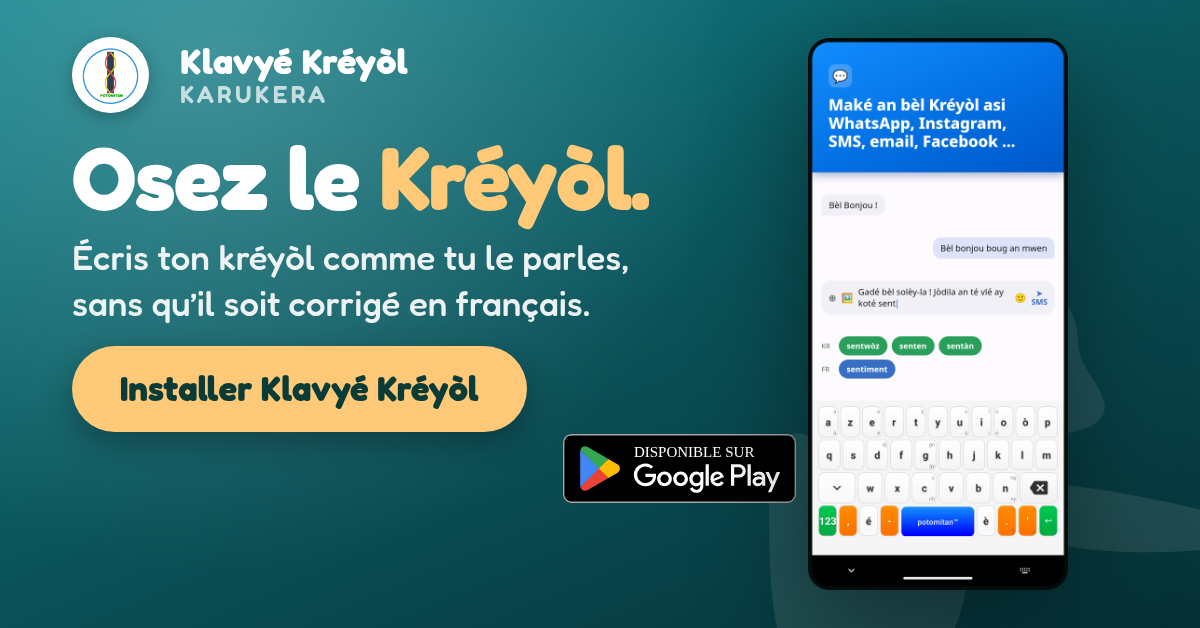
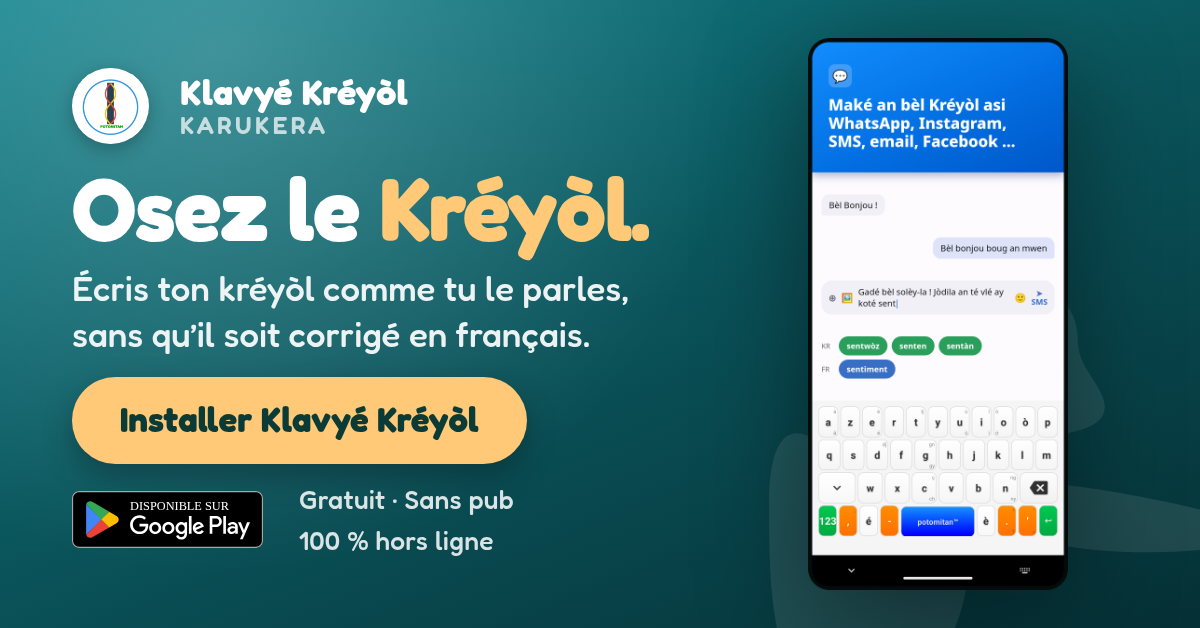
fix(pub): le pied du format paysage débordait sur le téléphone
En 1200 x 628, le bouton, le badge du magasin et les mentions tenaient sur une
seule rangée plus large que la colonne de texte : le badge passait par-dessus
le téléphone et la fin des mentions disparaissait derrière. Le pied s'empile
désormais sur deux niveaux.

Changed region(s): [[0.0617, 0.0605, 0.6783, 0.8774], [0.2467, 0.8471, 0.4317, 0.8774]]

diff --git a/docs/publicites.html b/docs/publicites.html
@@ -184,9 +184,11 @@ code{font-family:var(--mono);font-size:12.5px;background:var(--stripe);padding:1
 .L-wide .brand .name b{font-size:3cqw;}
 .L-wide .brand .name span{font-size:2cqw;}
 .L-wide .shot{max-width:100%;max-height:88cqh;}
-.L-wide .tail{margin-top:auto;padding-top:3cqh;display:flex;align-items:center;gap:3cqw;}
+.L-wide .tail{margin-top:auto;padding-top:3cqh;display:flex;flex-direction:column;
+  align-items:flex-start;gap:2.4cqh;}
+.L-wide .store-row{display:flex;align-items:center;gap:3cqw;}
 .L-wide .cta{font-size:2.9cqw;padding:2.6cqh 4cqw;}
-.L-wide .store{height:11cqh;}
+.L-wide .store{height:9cqh;}
 .L-wide .foot{font-size:2.2cqw;}
 .L-wide .carte{width:46cqw;right:-8cqw;bottom:-14cqh;}
 
@@ -405,7 +407,10 @@ const LAYOUTS = {
       ${brand()}
       <h2 class="head" style="margin-top:3cqh">${c.headShort}</h2>
       <p class="sub">${c.sub}</p>
-      <div class="tail">${cta(c)}${store()}<p class="foot">${c.foot}</p></div>
+      <div class="tail">
+        ${cta(c)}
+        <div class="store-row">${store()}<p class="foot">${c.foot}</p></div>
+      </div>
     </div>
     <div class="right">${shot()}</div>`,
 
